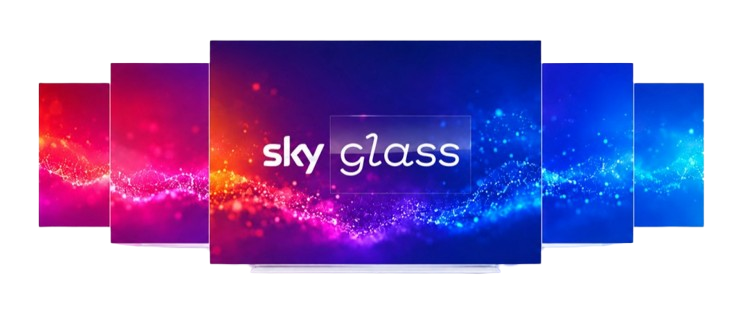
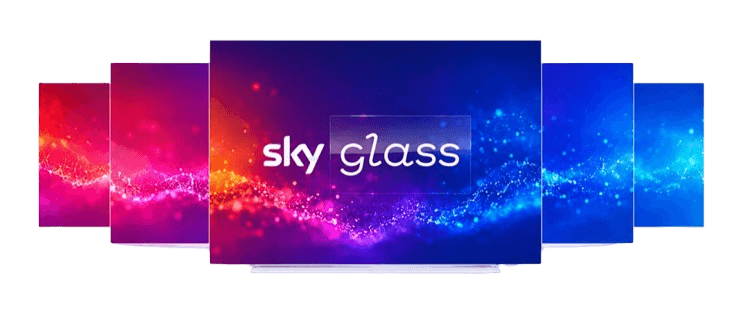
first commit

diff --git a/src/components/sections/b1g-header.tsx b/src/components/sections/b1g-header.tsx
@@ -7,6 +7,7 @@ import { Menu, X } from "lucide-react";
 import { AnimatePresence, motion } from "framer-motion";
 import { Button } from "@/components/ui/button";
 import { ROUTES } from "@/lib/seo";
+import { LOGO_IMAGE } from "@/lib/assets";
 
 const navLinks = [
   { name: "Sky Glass IPTV", href: ROUTES.home },
@@ -51,7 +52,7 @@ export function B1GHeader() {
         <Link href={ROUTES.home} className="flex items-center shrink-0 group">
           <div className="relative h-11 w-[156px] flex items-center justify-center transition-transform duration-300 group-hover:scale-[1.02]">
             <Image
-              src="/logo-transparent.PNG"
+              src={LOGO_IMAGE}
               alt="Sky Glass IPTV Logo"
               width={156}
               height={44}
@@ -93,7 +94,7 @@ export function B1GHeader() {
             <Link href={ROUTES.home} className="flex items-center group">
               <div className="relative h-9 w-[130px] flex items-center justify-center transition-transform duration-300 group-active:scale-[1.02]">
                 <Image
-                  src="/logo-transparent.PNG"
+                  src={LOGO_IMAGE}
                   alt="Sky Glass IPTV Logo"
                   width={130}
                   height={36}

diff --git a/src/components/sections/b1g-hero-content.tsx b/src/components/sections/b1g-hero-content.tsx
@@ -32,7 +32,7 @@ export function B1GHeroContent({ showFullBodyCopy = true }: B1GHeroContentProps)
 
       {/* Body copy — fade/slide in on load */}
       <FadeIn delay={0.22} duration={0.45} yOffset={14} className="w-[90%] sm:w-full sm:max-w-xl lg:max-w-[34rem]">
-        <div className="mt-3 sm:mt-6 space-y-2 sm:space-y-4 text-[10px] sm:text-sm lg:text-base text-black leading-[1.5] sm:leading-relaxed">
+        <div className="hero-description-copy mt-3 sm:mt-6 space-y-2.5 sm:space-y-4 text-[12.5px] sm:text-sm lg:text-base text-slate-800 font-medium leading-[1.5] sm:leading-relaxed">
           <p>
             Enjoy flexible television and on-demand entertainment with Sky Glass IPTV, a UK-focused service designed for viewers who want straightforward setup, broad device support and access to live and on-demand categories.
           </p>

diff --git a/src/components/animation/synthesis-background.tsx b/src/components/animation/synthesis-background.tsx
@@ -25,7 +25,7 @@ export default function SynthesisBackground({
       <div 
         className="absolute inset-0 md:hidden"
         style={{
-          backgroundImage: 'url(/website-bg-image.jpeg)',
+          backgroundImage: 'url(/hero-bg-image.webp)',
           backgroundSize: 'cover',
           backgroundPosition: 'center',
           backgroundRepeat: 'no-repeat',
@@ -37,7 +37,7 @@ export default function SynthesisBackground({
       <div 
         className="hidden md:block absolute inset-0"
         style={{
-          backgroundImage: 'url(/desktop_bg_landscape.png)',
+          backgroundImage: 'url(/desktop_bg_landscape.webp)',
           backgroundSize: 'cover',
           backgroundPosition: 'center',
           backgroundRepeat: 'no-repeat',

diff --git a/src/components/brand/b1g-logo.tsx b/src/components/brand/b1g-logo.tsx
@@ -1,6 +1,7 @@
 import React from "react";
 import Image from "next/image";
 import { cn } from "@/lib/utils";
+import { LOGO_IMAGE } from "@/lib/assets";
 
 interface B1GLogoProps {
   className?: string;
@@ -17,7 +18,7 @@ export function B1GLogo({ className, size = "md" }: B1GLogoProps) {
   return (
     <div className={cn("relative flex items-center select-none", heightMap[size], className)}>
       <Image
-        src="/logo-transparent.PNG"
+        src={LOGO_IMAGE}
         alt="Sky Glass IPTV Logo"
         width={200}
         height={56}

diff --git a/src/lib/assets.ts b/src/lib/assets.ts
@@ -1,11 +1,11 @@
 /** Shared static asset paths */
-export const HERO_IMAGE = "/hero.PNG";
+export const HERO_IMAGE = "/hero.webp";
 export const HERO_IMAGE_WIDTH = 744;
 export const HERO_IMAGE_HEIGHT = 335;
 export const HERO_IMAGE_ALT =
   "Sky Glass IPTV displayed on multiple television screens";
 
-export const LOGO_IMAGE = "/logo-transparent.PNG";
+export const LOGO_IMAGE = "/logo-transparent.webp";
 
 /** Favicon source lives in src/app/icon2.png; public copies generated from it */
 export const FAVICON_ICON = "/icons/icon-192.png";

diff --git a/src/app/globals.css b/src/app/globals.css
@@ -552,4 +552,9 @@ h1,
   span:not(h1 *):not(h2 *):not(h3 *):not(h4 *):not(h5 *):not(h6 *):not(.text-h1-b1g *):not(.text-h2 *):not(.font-heading):not(.text-brand-gradient) {
     font-size: 14px !important;
   }
+
+  .hero-description-copy p {
+    font-size: 12.5px !important;
+    line-height: 1.55 !important;
+  }
 }
